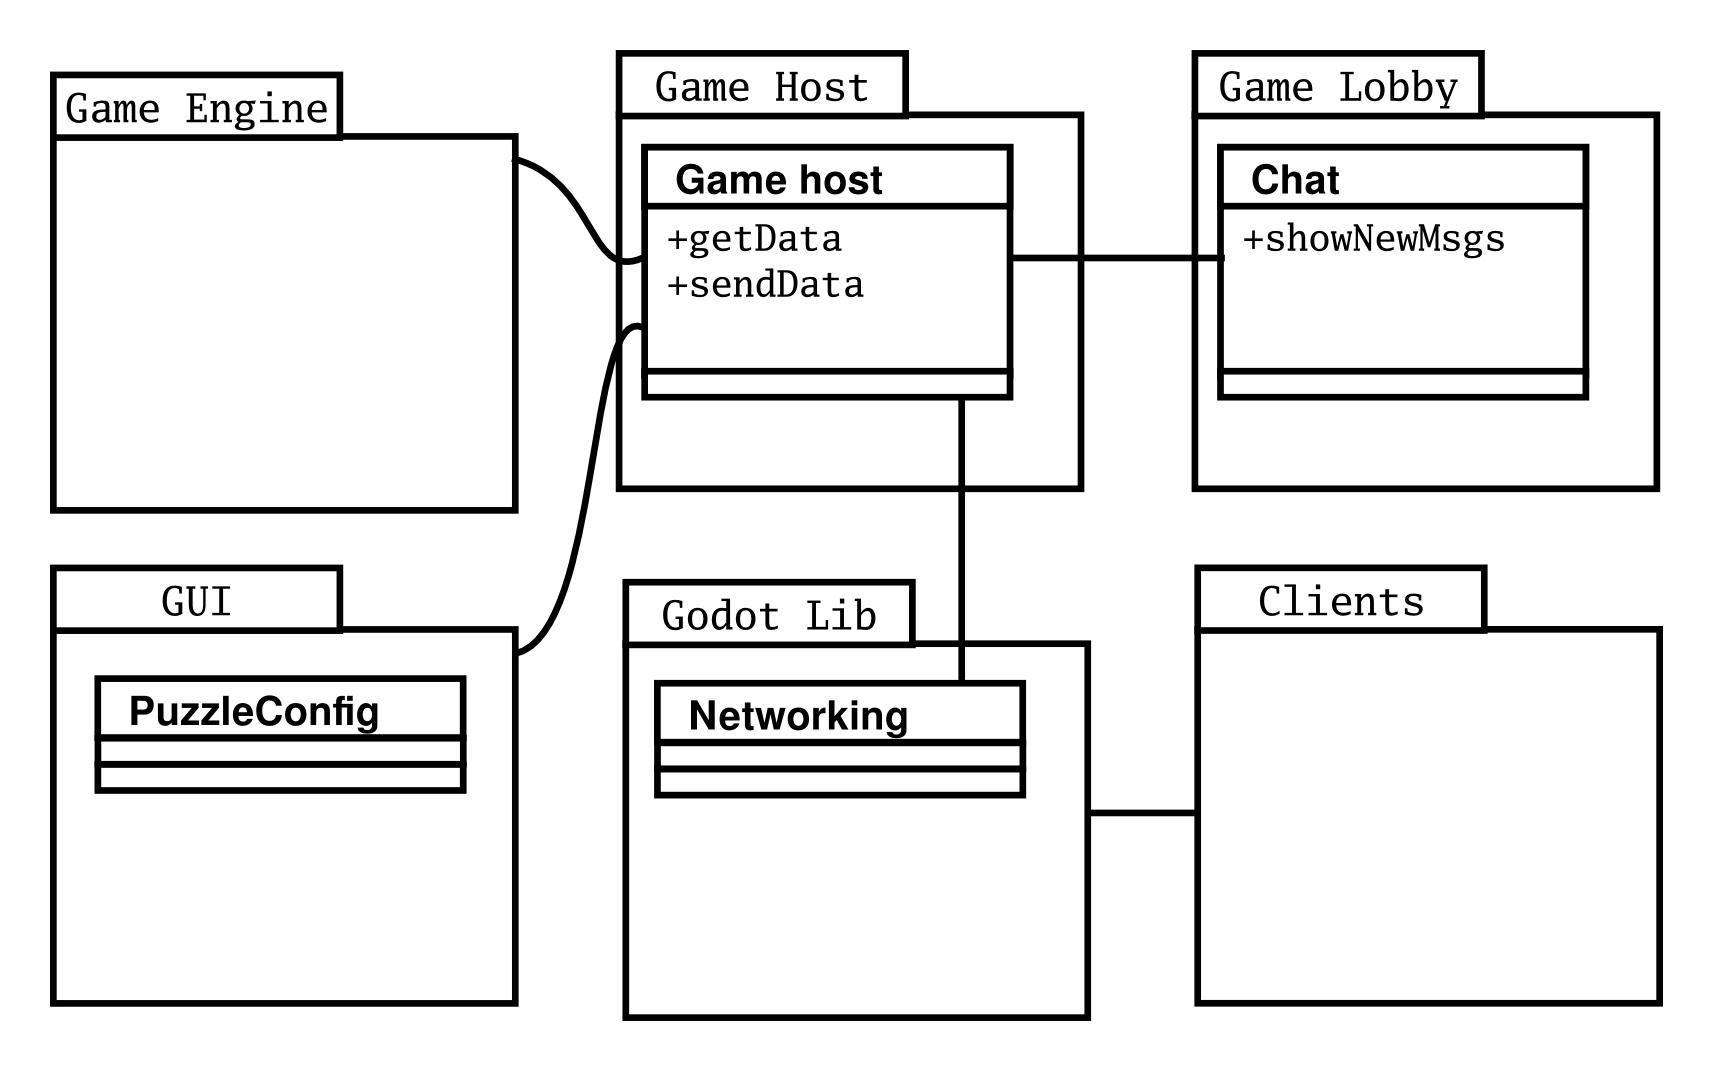
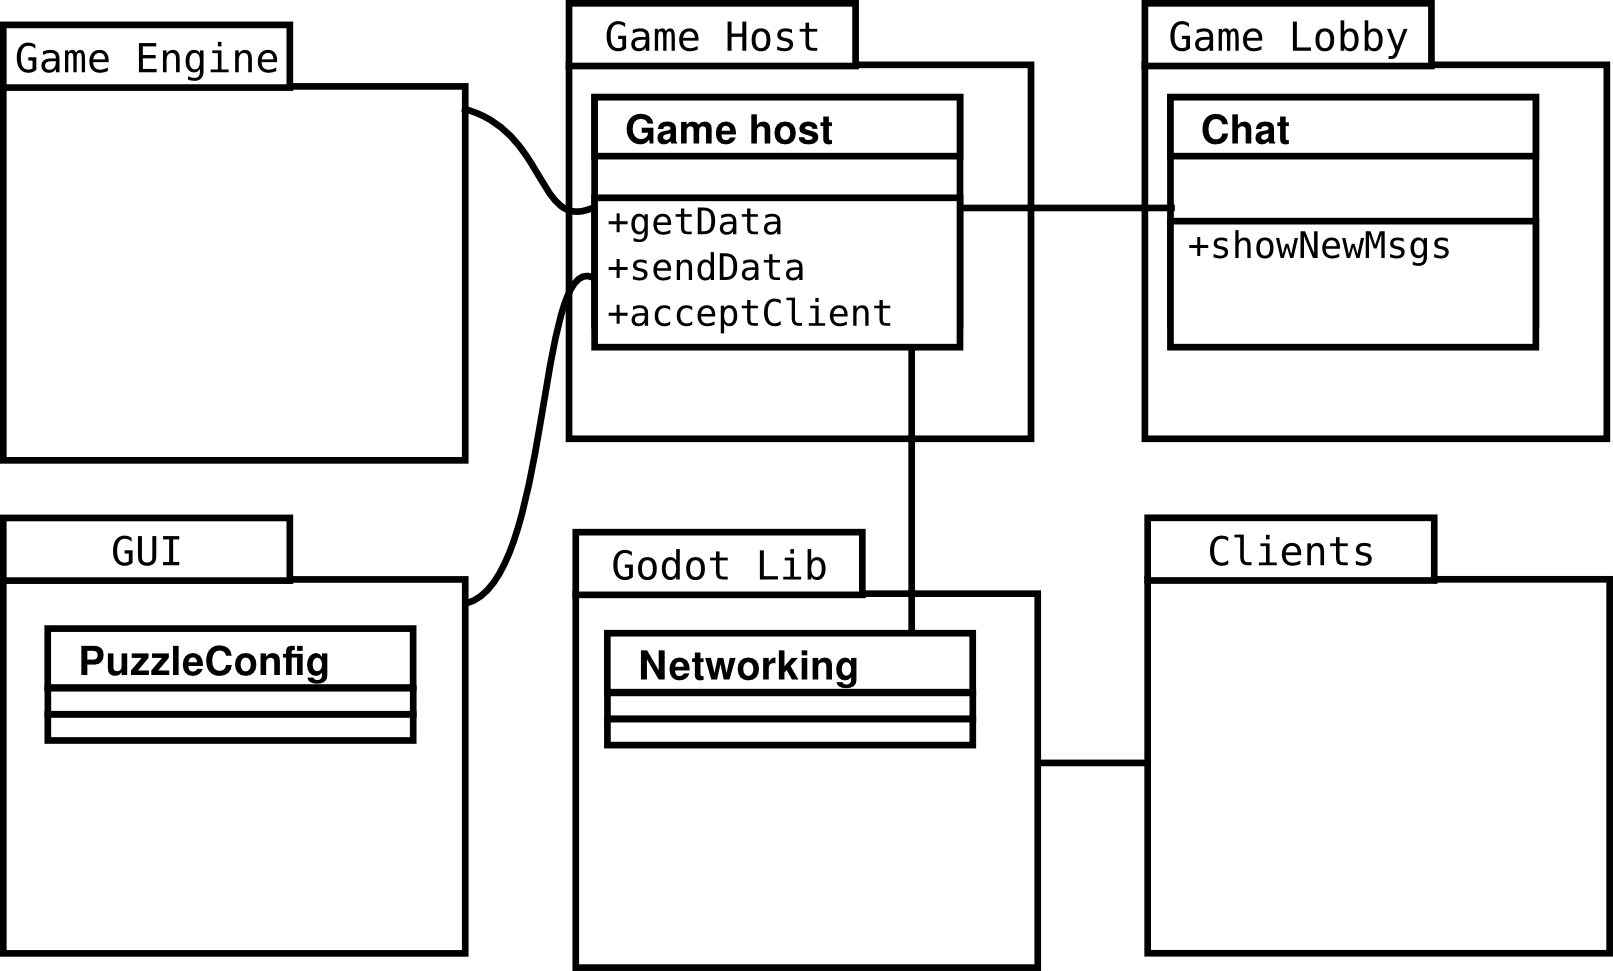
Revised class diagrams so that methods are in the lower box and attributes are in the upper

Changed region(s): [[0.0, 0.0, 1.0, 1.0]]

diff --git a/team5-design-spec.tex b/team5-design-spec.tex
@@ -48,7 +48,7 @@ The main objectives of the project involve:
   \item Adding online connections through a client-server setup instead of through peer-to-peer connections.
   \item Adding new competitive and single player game modes based on the same puzzle mechanics, such as 'race the clock' or 'remove all blocks'.
   \item Adding puzzles that are not cube shaped.
-  \item Adding a hiscore board.
+  \item Adding a high-score board.
   \item Adding replays.
   \end{itemize}
 \end{itemize}
